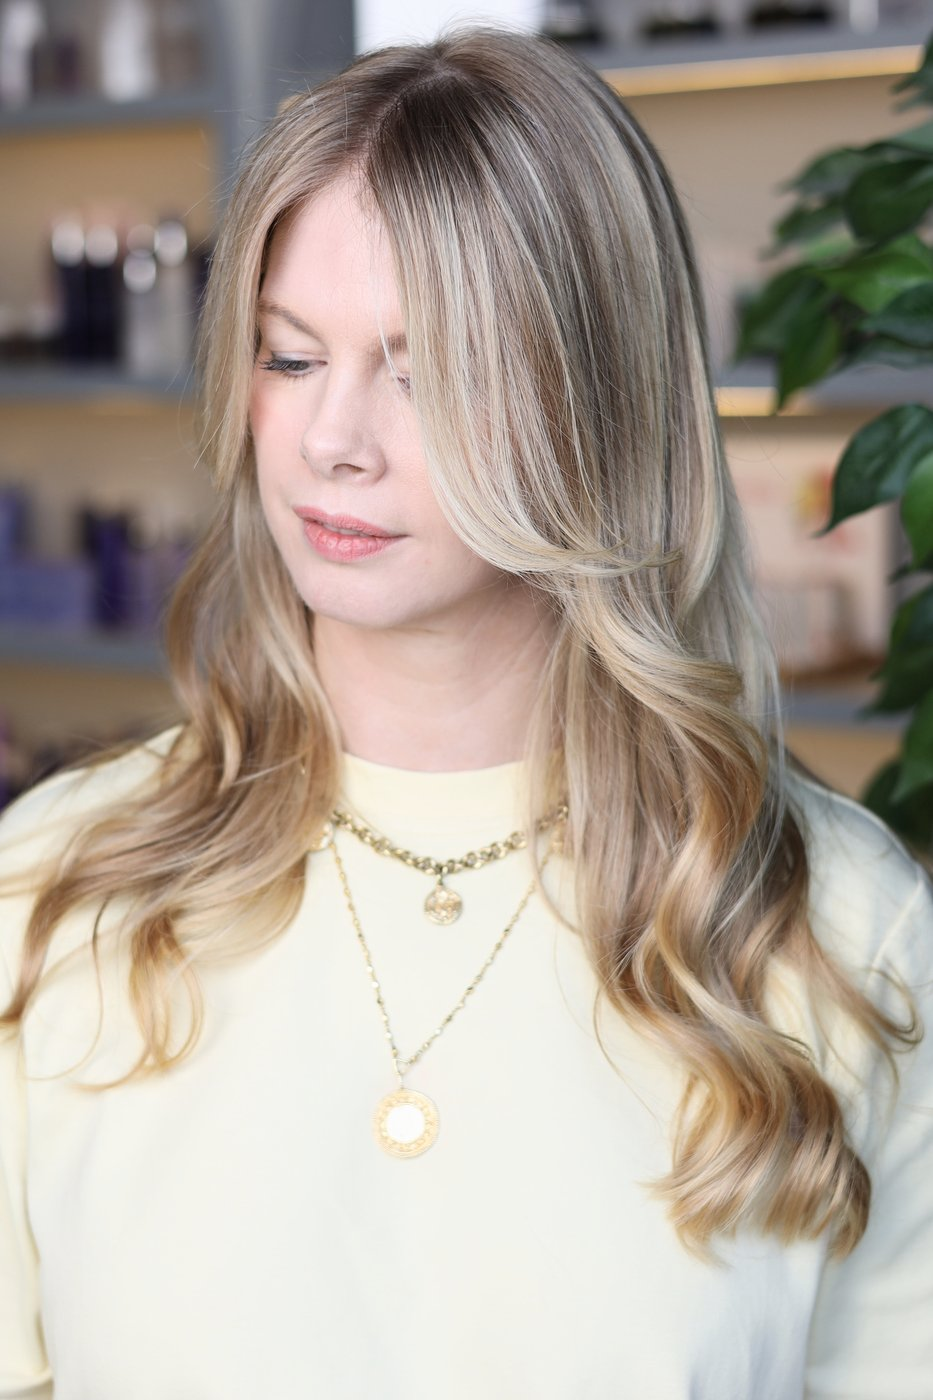
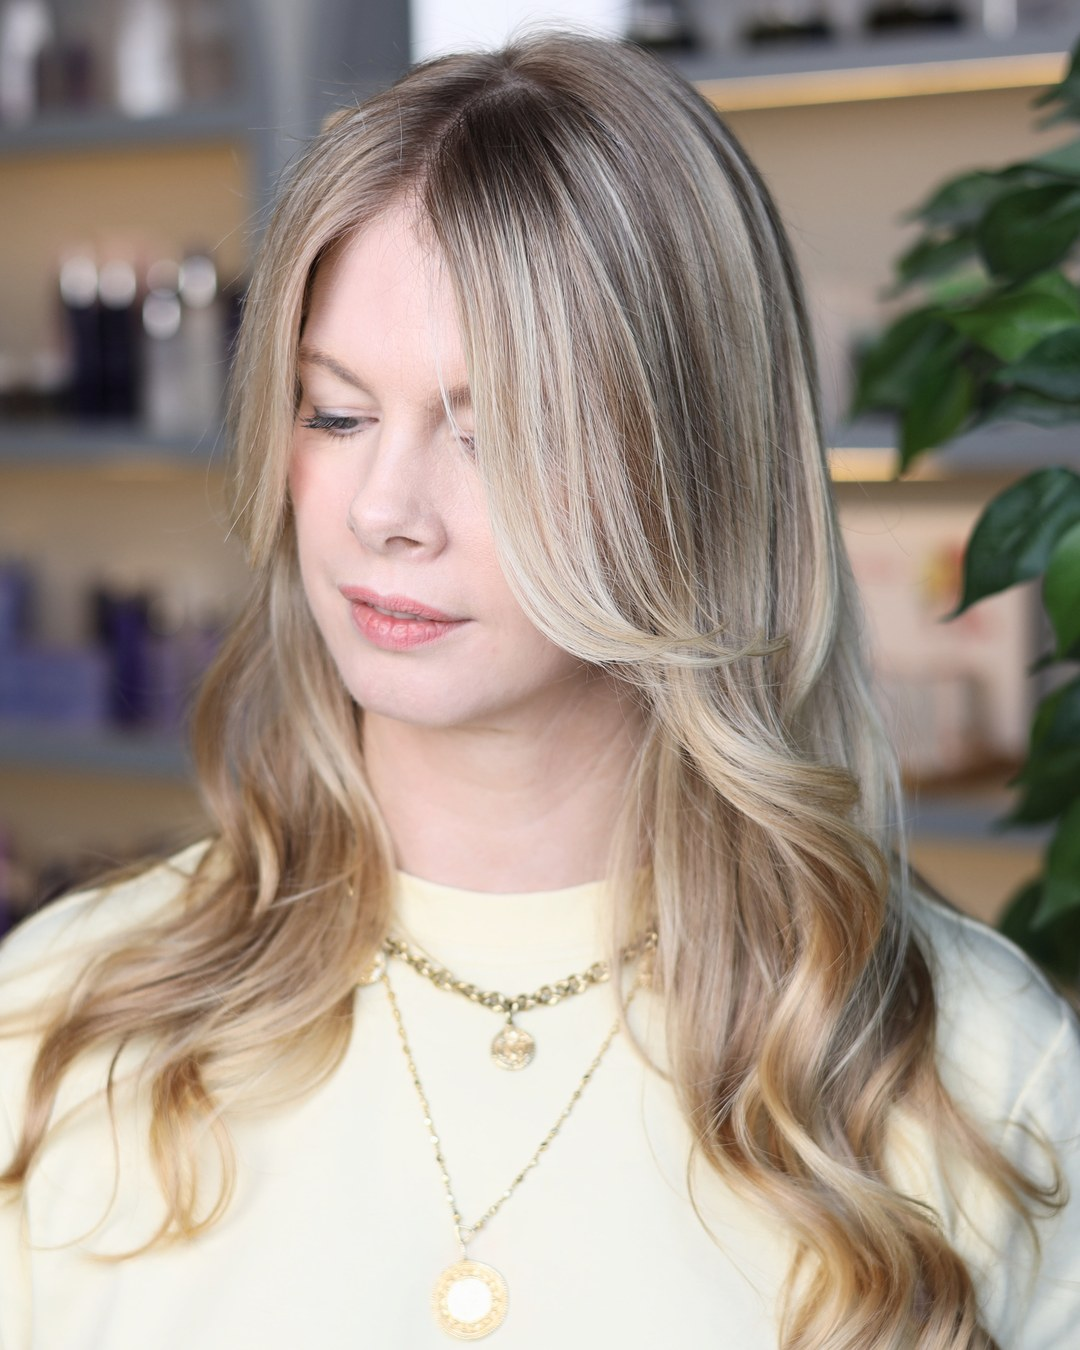
The Soft Blonde card zooms to match its neighbours: the same BLONDE19 frame re-cut tighter from the original, her head now the scale of the two close-ups beside it instead of a wider chest-up frame reading smaller and farther away

diff --git a/index.html b/index.html
@@ -151,7 +151,7 @@
     </div>
     <div class="doors lane-cards">
       <article class="door">
-        <figure class="lane-photo"><img src="assets/img/lane-soft.jpg" alt="Soft blonde with a brighter face frame, the lengths left natural with a gentle grow-out" loading="lazy" decoding="async" width="933" height="1400" style="object-position:50% 22%"></figure>
+        <figure class="lane-photo"><img src="assets/img/lane-soft.jpg" alt="Soft blonde with a brighter face frame, the lengths left natural with a gentle grow-out" loading="lazy" decoding="async" width="1080" height="1350" style="object-position:50% 18%"></figure>
         <h3>Soft Blonde</h3>
         <p class="lane-for">For you when you want brightness with lower upkeep: soft grow-out, face-framing light.</p>
         <p class="lane-focus">Soft does not mean no maintenance.</p>
